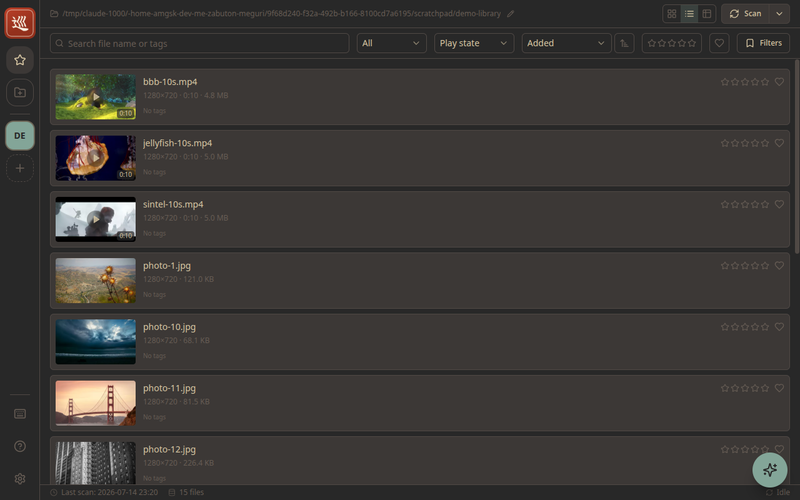
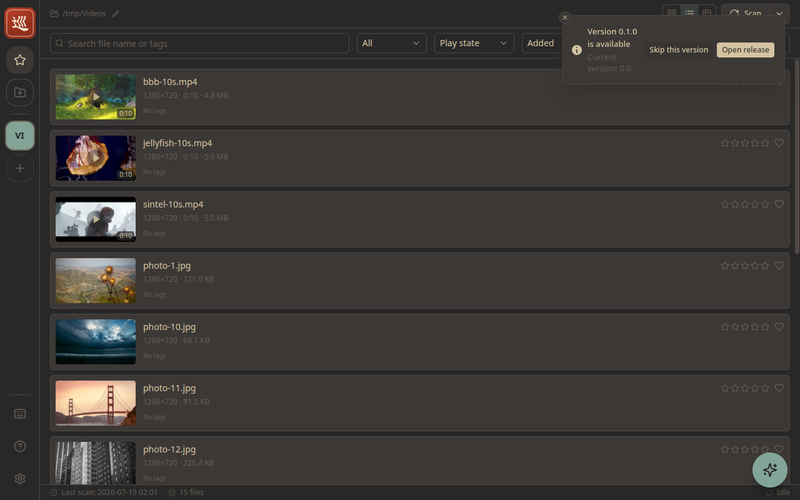
docs: add GitHub Pages download page
- Add docs/index.html with dynamic latest-release download links
- Solarized light palette for both the page and the app screenshot
- Re-capture all demo assets with a clean /tmp/Videos root path
- Add .nojekyll and page icon

diff --git a/docs/index.html b/docs/index.html
@@ -1,0 +1,151 @@
+<!doctype html>
+<html lang="en">
+<head>
+<meta charset="utf-8">
+<meta name="viewport" content="width=device-width, initial-scale=1">
+<title>Meguri — a local-first media library</title>
+<meta name="description" content="Browse, search, and play your local videos and photos. No cloud, no account. Downloads for Linux, Windows, and macOS.">
+<link rel="icon" href="./assets/icon.png">
+<style>
+  /* Solarized light, regardless of the OS color scheme */
+  :root {
+    color-scheme: light;
+    --bg: #fdf6e3;
+    --fg: #586e75;
+    --muted: #93a1a1;
+    --card: #eee8d5;
+    --border: #d9d2bc;
+    --accent: #268bd2;
+    --accent-fg: #fdf6e3;
+  }
+  * { box-sizing: border-box; margin: 0; }
+  body {
+    font-family: system-ui, -apple-system, "Segoe UI", sans-serif;
+    background: var(--bg); color: var(--fg);
+    line-height: 1.6;
+  }
+  .wrap { max-width: 880px; margin: 0 auto; padding: 3rem 1.25rem 4rem; }
+  header { text-align: center; margin-bottom: 2.5rem; }
+  header img.logo { width: 96px; height: 96px; border-radius: 22%; }
+  h1 { font-size: 2.2rem; margin-top: .75rem; }
+  .tagline { color: var(--muted); font-size: 1.1rem; max-width: 40rem; margin: .5rem auto 0; }
+  .shot {
+    display: block; width: 100%; border-radius: 12px;
+    border: 1px solid var(--border); margin: 2rem 0;
+    box-shadow: 0 12px 32px rgba(88, 110, 117, .25), 0 3px 8px rgba(88, 110, 117, .15);
+  }
+  h2 { font-size: 1.3rem; margin: 2.5rem 0 1rem; }
+  .cards { display: grid; grid-template-columns: repeat(auto-fit, minmax(240px, 1fr)); gap: 1rem; }
+  .card {
+    background: var(--card); border: 1px solid var(--border);
+    border-radius: 12px; padding: 1.25rem;
+  }
+  .card.highlight { border-color: var(--accent); box-shadow: 0 0 0 1px var(--accent); }
+  .card h3 { font-size: 1.05rem; margin-bottom: .75rem; }
+  .btn {
+    display: block; text-align: center; text-decoration: none;
+    background: var(--accent); color: var(--accent-fg);
+    border-radius: 8px; padding: .55rem .9rem; margin: .4rem 0;
+    font-weight: 600; font-size: .95rem;
+  }
+  .btn.secondary { background: transparent; color: var(--fg); border: 1px solid var(--border); font-weight: 500; }
+  .btn:hover { filter: brightness(1.08); }
+  .size { color: var(--muted); font-weight: 400; font-size: .85rem; }
+  code.cmd {
+    display: block; background: var(--card); border: 1px solid var(--border);
+    border-radius: 8px; padding: .55rem .9rem; margin: .4rem 0;
+    font-size: .9rem; overflow-x: auto; white-space: nowrap;
+  }
+  .note { color: var(--muted); font-size: .9rem; margin-top: 1rem; }
+  footer { margin-top: 3.5rem; text-align: center; color: var(--muted); font-size: .9rem; }
+  footer a { color: inherit; }
+  #version { color: var(--muted); font-size: .95rem; }
+</style>
+</head>
+<body>
+<div class="wrap">
+  <header>
+    <img class="logo" src="./assets/icon.png" alt="Meguri logo">
+    <h1>Meguri</h1>
+    <p class="tagline">A local-first media library for your videos and photos —
+    scan, browse, search, and play, all offline. No cloud, no account.</p>
+    <p id="version"></p>
+  </header>
+
+  <img class="shot" src="./assets/theme-solarized-light.png" alt="Meguri browsing a media library in grid view">
+
+  <h2>Download</h2>
+  <div class="cards" id="downloads">
+    <div class="card" data-os="linux">
+      <h3>🐧 Linux</h3>
+      <a class="btn" data-asset="AppImage" href="https://github.com/zabuton-app/meguri/releases/latest">AppImage</a>
+      <a class="btn secondary" data-asset="deb" href="https://github.com/zabuton-app/meguri/releases/latest">.deb package</a>
+    </div>
+    <div class="card" data-os="windows">
+      <h3>🪟 Windows</h3>
+      <a class="btn" data-asset="exe" href="https://github.com/zabuton-app/meguri/releases/latest">Installer (x64)</a>
+    </div>
+    <div class="card" data-os="mac">
+      <h3>🍎 macOS</h3>
+      <a class="btn" data-asset="dmg" href="https://github.com/zabuton-app/meguri/releases/latest">.dmg (Apple silicon)</a>
+      <a class="btn secondary" data-asset="zip" href="https://github.com/zabuton-app/meguri/releases/latest">.zip (Apple silicon)</a>
+    </div>
+  </div>
+
+  <h2>Package managers</h2>
+  <div class="cards">
+    <div class="card" data-os="linux">
+      <h3>Arch Linux (AUR)</h3>
+      <code class="cmd">yay -S meguri-bin</code>
+    </div>
+  </div>
+
+  <p class="note">All downloads are also available on the
+  <a href="https://github.com/zabuton-app/meguri/releases">GitHub Releases</a> page.
+  Meguri only ever reads the folders you point it at — your media files are never modified.</p>
+
+  <footer>
+    <p>Free &amp; open source (MIT) ·
+    <a href="https://github.com/zabuton-app/meguri">Source code on GitHub</a> ·
+    <a href="https://github.com/zabuton-app/meguri/issues">Report an issue</a></p>
+  </footer>
+</div>
+
+<script>
+  // Resolve direct asset links + version from the latest GitHub release.
+  // Falls back to the releases page links already in the markup.
+  const human = (n) => `${(n / 1048576).toFixed(0)} MB`;
+  fetch("https://api.github.com/repos/zabuton-app/meguri/releases/latest")
+    .then((r) => (r.ok ? r.json() : Promise.reject()))
+    .then((rel) => {
+      document.getElementById("version").textContent =
+        `Latest release: ${rel.tag_name}`;
+      const match = {
+        AppImage: (a) => a.name.endsWith(".AppImage"),
+        deb: (a) => a.name.endsWith(".deb"),
+        exe: (a) => a.name.endsWith(".exe"),
+        dmg: (a) => a.name.endsWith(".dmg"),
+        zip: (a) => a.name.endsWith(".zip"),
+      };
+      for (const btn of document.querySelectorAll("[data-asset]")) {
+        const asset = rel.assets.find(match[btn.dataset.asset]);
+        if (asset) {
+          btn.href = asset.browser_download_url;
+          btn.insertAdjacentHTML(
+            "beforeend",
+            ` <span class="size">(${human(asset.size)})</span>`,
+          );
+        }
+      }
+    })
+    .catch(() => {});
+
+  // Highlight the visitor's platform.
+  const ua = navigator.userAgent;
+  const os = /Windows/i.test(ua) ? "windows" : /Mac/i.test(ua) ? "mac" : "linux";
+  for (const card of document.querySelectorAll(`[data-os="${os}"]`)) {
+    card.classList.add("highlight");
+  }
+</script>
+</body>
+</html>
